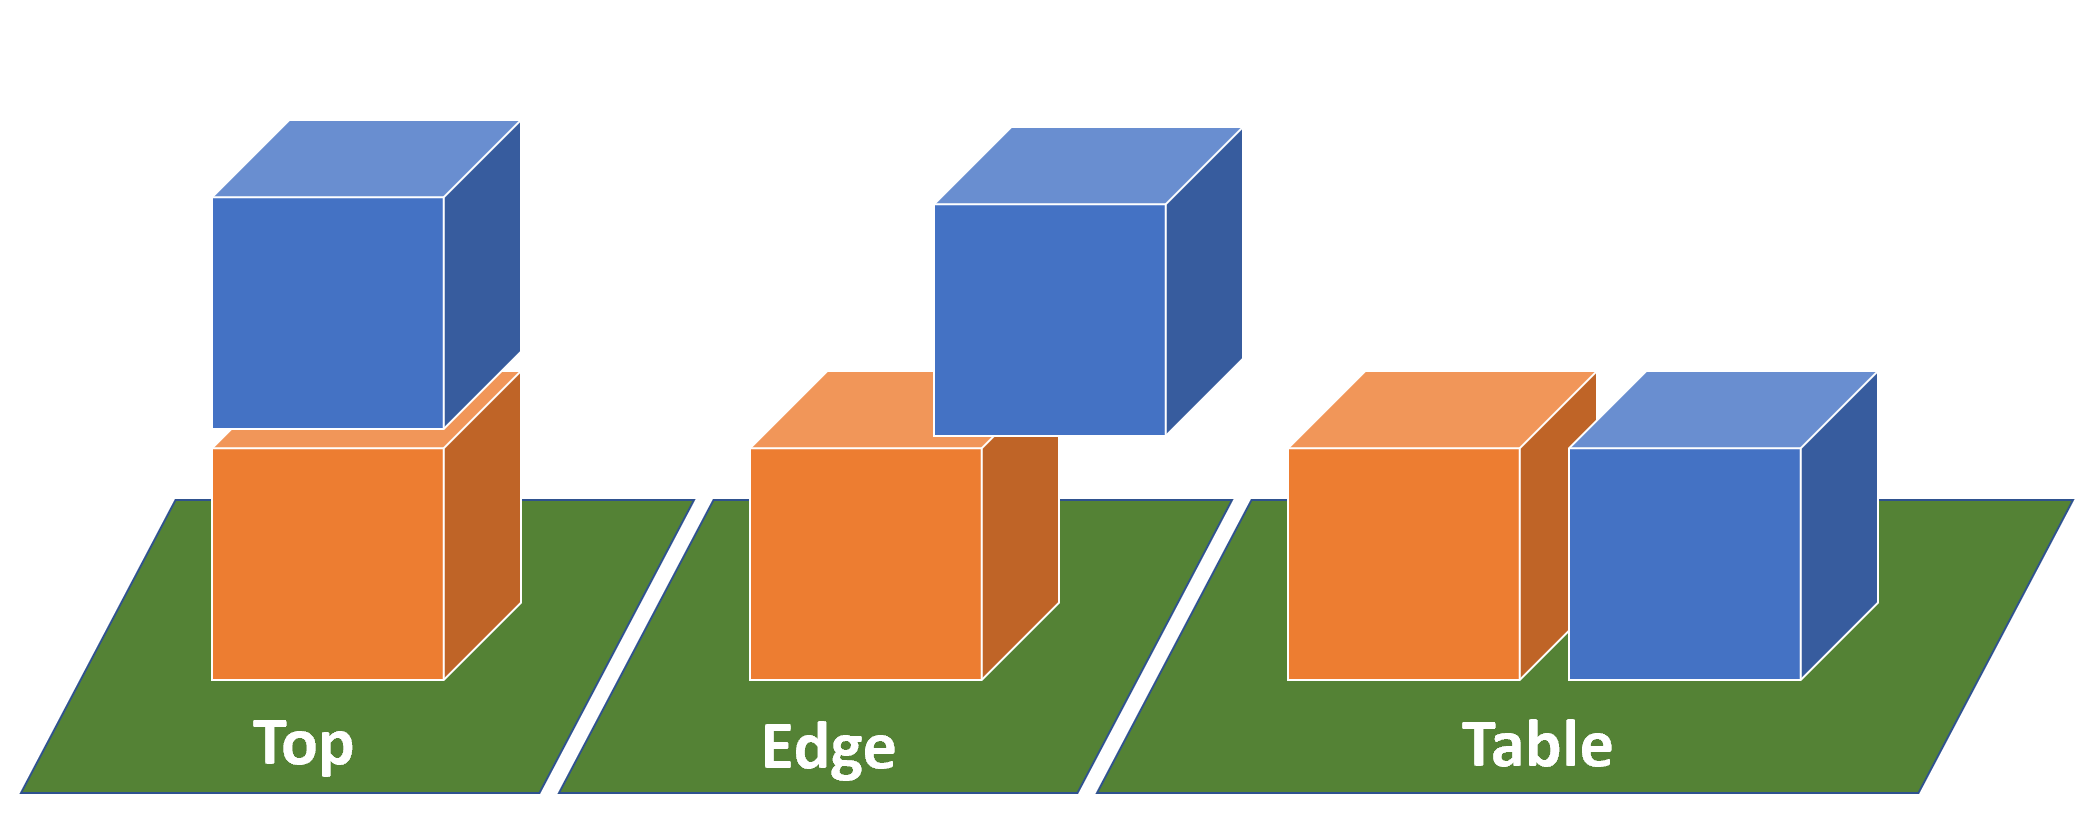
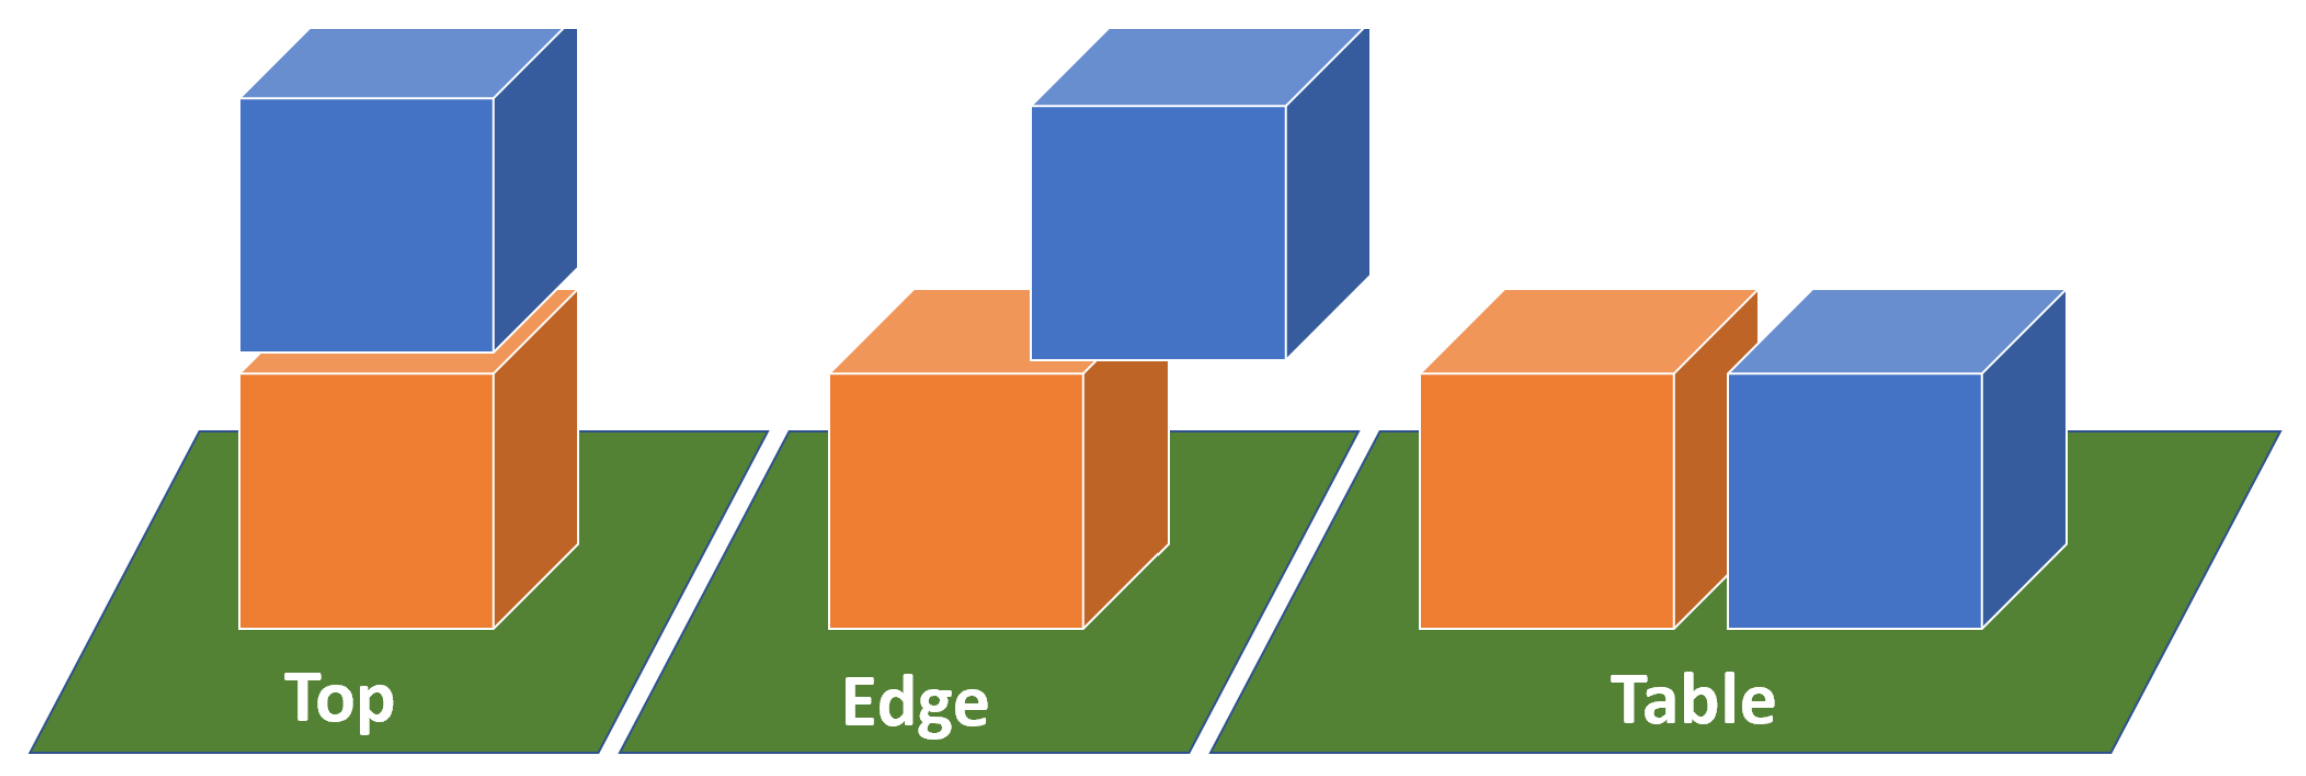
Updates from Overleaf

diff --git a/main.tex b/main.tex
@@ -125,12 +125,12 @@ This work has two key contributions.  First, we create a systematic dataset, inv
 
 \begin{figure}[t]
     \centering
-    \includegraphics[width=0.45\textwidth, trim={0 0.3in 0 0in},clip]{putthatthere2.png}
+    \includegraphics[width=0.45\textwidth]{putthatthere2.png}
     \caption{A pick-and-place task requires a \textit{referential} pointing action to the object (orange cube) at the initial position, and a \textit{locating} pointing action to a final placement position (dotted cube). Such an action by a robot (in red) can also be accompanied by verbal cues like \textit{``Put that there.''}}
     \label{fig:pap}
 \end{figure}
 
-The second contribution is a set of interpretive principles, inspired by the literature on vague communication, that summarize our findings about robot pointing.  Our results suggest that pointing selects from a set of candidate interpretations determined by the type of information specified, the possibilities presented by the scene, and the options compatible with the current task.  In particular, we propose that pointing picks out all candidates that are not significantly further from the pointing ray than the closest alternatives.  Based on our empirical results, we present design principles that formalize the relevant notions of ``available alternatives'' and ``significantly further away'' and can be used in implementing future pointing robots.  The Analysis and Design Principles sections explains and justifies this approach and contextualizes it with previous research.
+The second contribution is a set of interpretive principles, inspired by the literature on vague communication, that summarize the findings about robot pointing.  They suggest that pointing selects from a set of candidate interpretations determined by the type of information specified, the possibilities presented by the scene, and the options compatible with the current task.  In particular, we propose that pointing picks out all candidates that are not significantly further from the pointing ray than the closest alternatives.  Based on our empirical results, we present design principles that formalize the relevant notions of ``available alternatives'' and ``significantly further away'', which can be used in future pointing robots.  The Analysis and Design Principles sections explain and justify this approach.
 
 
 \section{Related work}
@@ -138,7 +138,12 @@ The second contribution is a set of interpretive principles, inspired by the lit
 
 Enabling robots to understand and generate instructions to collaboratively carry out tasks with humans is an active area of research in natural language processing and human-robot interaction \cite{butepage2017human,cha2018survey}.  Within this area, a range of work has explored the role of pointing gestures in communication.
 
-Initial efforts in robotics have looked at making pointing gestures legible, adapting the process of motion planning so that robot movements are correctly understood as being directed toward the location of a particular object in space \cite{holladay2014legible,zhao2016experimental}.  The current work uses motions that are legible in this sense and goes on to explore how precise the targeting has to be to signal an intended interpretation.
+
+In modeling artificially intelligent agents, researchers have recognized the importance of effective communication, embracing all the communicative modalities agents can use to express information. In particular, perceiving physical actions \cite{thibadeau1986artificial} is often essential for socially-embedded behavior \cite{dautenhahn2002embodied}, as well as for understanding human demonstrations to infer solutions that can be emulated by robots \cite{kuniyoshi1994learning}. Animated agents have long provided resources for AI researchers to experiment with models of conversational interaction Cassell et al. (1994)\cite{cassell:siggraph1994}, while communication using hand gestures \cite{pavlovic1997visual} has long played a role in supporting intelligent human-computer interaction.
+As robotic hardware capabilities have increased, robots are increasingly seen as a viable platform \cite{scassellati2000investigating} for expressing and studying behavioral models. In the context of human-robot interactions, deictic or pointing gestures on robotics systems \cite{pook1996deictic}.  More recent work has developed richer abilities refer to refer objects by using pre-recorded human-guided motions \cite{sauppe2014robot}, or using mixed-reality multi-modal setups \cite{williams2019mixed}. The current work makes progress towards this fundamental AI challenge of effective embodied communication by proposing empirically determined generative rules for both referential and locating robotic pointing.
+
+
+Particular efforts in robotics have looked at making pointing gestures legible, adapting the process of motion planning so that robot movements are correctly understood as being directed toward the location of a particular object in space \cite{holladay2014legible,zhao2016experimental}.  The current work uses motions(gesture, including pointing gestures and demonstrations,) that are legible in this sense and goes on to explore how precise the targeting has to be to signal an intended interpretation.
 
 %%%%%%%%%%%
 % connections to AI and vision
@@ -200,7 +205,7 @@ We study effective ways to express intent for a pick-and-place task. In other wo
 \label{experiments}
 
 
-Our experiments share a common animation platform (our Experiment Setup) and a common Data Collection protocol.  Our experiments differ in presenting subjects with a range of Experimental Conditions.  All of the experiments described in this section together with the methods that we have chosen to analyze the data were based on a private but approved pre-registration on \textit{aspredicted.org}. The document is publicly available at \url{https://aspredicted.org/cg753.pdf}.
+Our experiments share a common animation platform, described in the Experimental Setup, and a common Data Collection protocol.  The experiments differ in presenting subjects with a range of experimental conditions, as described in the corresponding section.  All of the experiments described here together with the methods chosen to analyze the data were based on a private but approved pre-registration on \textit{aspredicted.org}. The document is publicly available at: \url{https://aspredicted.org/cg753.pdf}.
 
 
 % \footnote{Pre-registration on https://aspredicted.org/ on 08/25/2019. The document is publicly available at \url{https://aspredicted.org/cg753.pdf}.} 
@@ -209,7 +214,7 @@ Our experiments share a common animation platform (our Experiment Setup) and a c
 \subsection{Experiment Setup}
 Each animation shows a simulated robot producing two pointing gestures to specify a pick-and-place task.  Following the animation, viewers are asked whether a specific image represents a possible result of the specified task.\\
 
-\noindent\textbf{Robotic Platforms} The experiments were performed on two different robotic geometries, based on a \textit{Rethink Baxter}, and a \textit{Kuka IIWA14}.  The \textit{Baxter} is a dual-arm manipulator with two arms mounted on either side of a static torso. The experiments only move the right arm of the \textit{Baxter}. The \textit{Kuka}  consists of a single arm that is vertically mounted, i.e., points upward at the base. In the experiments the robots are shown with a singly fingered tool-tip, where the pointing ray is modeled as the direction of this tool-tip.
+\noindent\textbf{Robotic Platforms} The experiments were performed on two different robotic geometries, based on a \textit{Rethink Baxter}, and a \textit{Kuka IIWA14}.  The \textit{Baxter} is a dual-arm manipulator with two arms mounted on either side of a static torso. The experiments only move the right arm of the \textit{Baxter}. The \textit{Kuka}  consists of a single arm that is vertically mounted, i.e., points upward at the base. In the experiments the robots are shown with a singly fingered tool-tip, where the pointing ray is modeled as the direction of this tool-tip.\\
 
 \noindent\textit{Note} The real Baxter robot possesses a heads-up display that can be likened to a `head'. This has been removed in the simulations that were used in this study (as shown for example in Figure~\ref{fig:natural}).\\
 
@@ -217,9 +222,7 @@ Each animation shows a simulated robot producing two pointing gestures to specif
 
 \noindent\textbf{Objects}  The objects used in the study include small household items like mugs, saucers and boxes (cuboids), that are all placed in front of the robots.\\
 
-\noindent\textbf{Motion Generation}  The end-effector of the manipulator is instructed to move to pre-specified waypoints, designed for the possibility of effective communication, that typically lie between the base of the manipulator and the object itself. Such waypoints fully specify both the position and orientation of the end-effector to satisfy \textit{pointing actions}. The motions are performed by solving Inverse Kinematics for the end-effector geometry and moving the manipulator along these waypoints using a robotic motion planning library 
-\cite{pracsys2014}.
-The motions were replayed on the model of the robot, and rendered in \textit{Blender}.\\
+\noindent\textbf{Motion Generation}  The end-effector of the manipulator is instructed to move to pre-specified waypoints, designed for the possibility of effective communication, that typically lie between the base of the manipulator and the object itself. Such waypoints fully specify both the position and orientation of the end-effector to satisfy \textit{pointing actions}. The motions are performed by solving Inverse Kinematics for the end-effector geometry and moving the manipulator along these waypoints using a robotic motion planning library \cite{pracsys2014}. The motions were replayed on the model of the robot, and rendered in \textit{Blender}.\\
 
 
 \begin{figure}[t]
@@ -304,7 +307,7 @@ The pointing action, as well as the objects of interest, stay the identical betw
 
 \begin{figure}[h!]
     \centering
-    \includegraphics[width=0.47\textwidth, trim={0 0 0 0.7in},clip ] {topedgetable.png}
+    \includegraphics[width=0.47\textwidth] {topedgetable.png}
     % \vspace{-0.1in}
     \caption{
     The diagram shows the three different configurations of the placement of a blue cuboid object evaluated in the \textit{Natural vs Unnatural} trials. 
@@ -323,7 +326,7 @@ To test if the effect is specific to the verb \textit{put}, we designed a contro
 \begin{figure*}[ht!]
 
     \centering
-    \includegraphics[width=0.5\textwidth, trim={0 0 0 3.3in},clip ] {labels.png}\\
+    \includegraphics[width=0.5\textwidth] {labels.png}\\
     \includegraphics[width=0.325\textwidth ] {baxter_Referential_.png}
     \includegraphics[width=0.325\textwidth ] {baxter_Referential-Reverse_.png}
     \includegraphics[width=0.325\textwidth ]{kuka_Referential_.png}
@@ -364,7 +367,7 @@ natural   & \textbf{top}  & \textbf{26} & 3         & 1         \\
 
 \paragraph{Natural vs Unnatural}
 
-As shown in Table~\ref{tab:natural-unnatural} we observed in the natural scene, when the end-effector points towards the edge of the cube that is on top of the stack, subjects place the new cube on top of the stack or on the table instead of the edge of the cube. However, in the unnatural scene, when we explain to subjects that there is no gravity, a majority agree with the final image that has the cube on the \textit{edge}. To test if this difference is statistically significant, we use the Fisher exact test \cite{10.2307/2340521}. 
+As shown in Table~\ref{tab:natural-unnatural} we observed in the natural scene, when the end-effector points towards the edge of the cube that is on top of the stack, subjects place the new cube on top of the stack or on the table instead of the edge of the cube. However, in the unnatural scene, when we explain to subjects that there is no gravity, a majority agree with the final image that has the cube on the \textit{edge}. To test if this difference is statistically significant, we use the Fisher exact test \cite{10.2307/2340manuelli2019kpam521}. 
 The test statistic value is $0.0478$. The result is significant at $p < 0.05$. 
 
 
@@ -401,26 +404,24 @@ and $3.650$ respectively. For Kuka, the average rating for samples from the $\an
 
 The results of the experiments suggest that locating pointing is interpreted rather precisely, where referential pointing is interpreted relatively flexibly.  This naturally aligns with the possibility for alternative interpretations.  For spatial reference, any location is a potential target.  By contrast, for referential pointing, it suffices to distinguish the target object from its distractors.
 
-We can characterize this interpretive process in formal terms by drawing on observations from the philosophical and computational literature on vagueness \cite{devault2004interpreting,graff2000shifting,kyburg2000fitting}.  Any pointing gesture starts from a set of candidate interpretations $D \subset \mathcal{W}$ determined by the context and the communicative goal.  In unconstrained situations, locating pointing allows a full set of candidates $D = \mathcal{W}.$  If factors like common-sense physics impose task constraints, that translates to restrictions on feasible targets $CS$, leading to a more restricted set of candidates $D = CS \cap \mathcal{W}$.  Finally, for referential pointing, the potential targets are located at locations $x_1 \ldots x_N \in S$, and $D = \{ x_1 \ldots x_N \}.$
+We can characterize this interpretive process in formal terms by drawing on observations from the philosophical and computational literature on vagueness \cite{devault2004interpreting,graff2000shifting,kyburg2000fitting}.  Any pointing gesture starts from a set of candidate interpretations $D \subset \mathcal{W}$ determined by the context and the communicative goal.  In unconstrained situations, locating pointing allows a full set of candidates $D = \mathcal{W}.$  If factors like common-sense physics impose task constraints, that translates to restrictions on feasible targets $CS$, leading to a more restricted set of candidates $D = CS \cap \mathcal{W}$.  Finally, for referential pointing, the potential targets are located at $x_1 \ldots x_N \in S$, and $D = \{ x_1 \ldots x_N \}.$
 
 Based on the communicative setting, we know that the pointing gesture, like any vague referring expression, must select at least one of the possible interpretations \cite{kyburg2000fitting}.  We can find the best interpretation by its distance to the target $x^*$ of the pointing gesture.  Using $d(x,x^*)$ to denote this distance, gives us a threshold $$\theta = \min_{x \in D} d(x, x^*).$$
 
-Vague descriptions can't be sensitive to fine distinctions \cite{graff2000shifting}.  So if a referent at $\theta$ is close enough to the pointing target, then another at $\theta + \epsilon$ must be close enough as well, for any value of $\epsilon$ that is not significant in the conversational context.  Our results suggest that viewers regard 10cm (in the scale of the model simulation) as an approximate threshold for a significant difference in our experiments.
+Vague descriptions can't be sensitive to fine distinctions \cite{graff2000shifting}.  So if a referent at $\theta$ is close enough to the pointing target, then another at $\theta + \epsilon$ must be close enough as well, for any value of $\epsilon$ that is not significant in the conversational context. Our results suggest that viewers regard 10cm (in the scale of the model simulation) as an approximate threshold for a significant difference in our experiments.
 
 In all, we predict that a pointing gesture is interpreted as referring to $\{x \in D | d(x,x^*) \leq \theta + \epsilon\}.$  We explain the different interpretations through the different choice of $D$.
 
-\paragraph{Locating Pointing}  For unconstrained locating pointing, $x^* \in D$, so $\theta=0$.  That means, the intended placement cannot differ significantly from the pointing target.  Taking into account common sense, we allow for small divergences that connect the pointing, for example, to the closest stable placement.
+\paragraph{Locating Pointing}  For unconstrained locating pointing, $x^* \in D$, so $\theta=0$.  That means, the intended placement cannot differ significantly from the pointing target.  Taking into account common sense, we allow for small divergence that connects the pointing, for example, to the closest stable placement.
 
 \paragraph{Referential Pointing}  For referential pointing, candidates play a much stronger role.  A pointing gesture always has the closest object to the pointing target as a possible referent.  However, ambiguities arise when the geometries of more than one object intersect with the $\theta+\epsilon$-neighborhood of $x^*$.   We can think of that, intuitively, in terms of the effects of $\theta$ and $\epsilon$.  Alternative referents give rise to ambiguity not only when they are too close to the target location ($\theta$) but even when they are simply not significantly further away from the target location ($\epsilon$).  
-
-
 
 \section{Conclusion and Future Work}
 \label{conclusion}
 
-We have presented an empirical study of the interpretation of simulated robots instructing pick-and-place tasks.  Our results show that robots can effectively combine pointing gestures and spoken instructions to communicate both object information and spatial information. We offer an empirical characterization---the first, to the best of the authors' knowledge---of the use of robot gestures to communicate precise spatial locations for placement purposes.  We have suggested that pointing, in line with other vague references, select from a set of candidate interpretations that depend on the task, context and communicative goal.  They pick those candidates that are not significantly further from the pointing ray than the best ones.  This contrasts with previous models that required pointing gestures to target a referent exactly or fall within a context-independent pointing cone.
+We have presented an empirical study of the interpretation of simulated robots instructing pick-and-place tasks.  Our results show that robots can effectively combine pointing gestures and spoken instructions to communicate both object and spatial information. We offer an empirical characterization---the first, to the best of the authors' knowledge---of the use of robot gestures to communicate precise spatial locations for placement purposes.  We have suggested that pointing, in line with other vague references, give rise to a set of candidate interpretations that depend on the task, context and communicative goal.  Users pick the interpretations that are not significantly further from the pointing ray than the best ones.  This contrasts with previous models that required pointing gestures to target a referent exactly or fall within a context-independent pointing cone.
 
-Our work has a number of limitations that suggest avenues for future work.   It remains to implement the design principles on robot hardware, explore the motion planning problems associated with generating imprecise but interpretable gestures, and verify the interpretations of physically co-present viewers.  Note that we used a 2D interface, which can introduce artifacts, for example from the effect of perspective.  In addition, robots can in general trade off pointing gestures with other descriptive material in offering instructions.  Future work is needed to assess how such trade-offs play out in location reference, not just in object reference.
+Our work has a number of limitations that suggest avenues for future work.   It remains to implement the design principles on robot hardware, explore the algorithmic process for generating imprecise but interpretable gestures, and verify the interpretations of physically co-present viewers.  Note that we used a 2D interface, which can introduce artifacts, for example from the effect of perspective.  In addition, robots can in general trade off pointing gestures with other descriptive material in offering instructions.  Future work is needed to assess how such trade-offs play out in location reference, not just in object reference.
 
 %%%%%%%%%%%%%%%%%%%%%%%%%%%%%%%%%%%
 %future work
@@ -429,7 +430,7 @@ Our work has a number of limitations that suggest avenues for future work.   It 
 
 More tight-knit collaborative scenarios need to be explored, including ones where multiple pick-and-place tasks can be composed to communicate more complex challenges and ones where they involve richer human environments.  Our study of  \textit{common sense} settings opens up intriguing avenues for such research, since it suggests ways to take into account background knowledge and expectations to narrow down the domain of possible problem specifications in composite tasks like \textit{``setting up a dining table.''} 
 
-While the current work studies the modalities of pointing and verbal cues, effects of including additional robotic communication in the form of heads-up displays or simulated eye-gaze would be other direction to explore. Such extensions would require lab experiments with human subjects and a real robot.  This is the natural next step of our work. 
+While the current work studies the modalities of pointing and verbal cues, effects of including additional robotic communication in the form of heads-up displays or simulated eye-gaze would be other directions to explore. Such extensions would require lab experiments with human subjects and a real robot.  This is the natural next step of our work. 
 
 % Real world trials are invaluable in evaluating the intensity of the effects observed in the current paper, and would prove instrumental in achieving our goal of truly effective human-robot communication and collaboration.
 
@@ -437,9 +438,7 @@ While the current work studies the modalities of pointing and verbal cues, effec
 
 
 \section{Acknowledgments}
-The research presented here is supported by NSF
-Award IIS-1526723.
-Thanks to the anonymous reviewers for helpful comments. We would also like to thank the Mechanical Turk participants for their contributions.
+The research presented here is supported by NSF Awards 1526723, 1734492, 1723869 and 1934924. Thanks to the anonymous reviewers for helpful comments. We would also like to thank the Mechanical Turk participants for their contributions.
 
 
 \bibliography{pointing.bib} 
